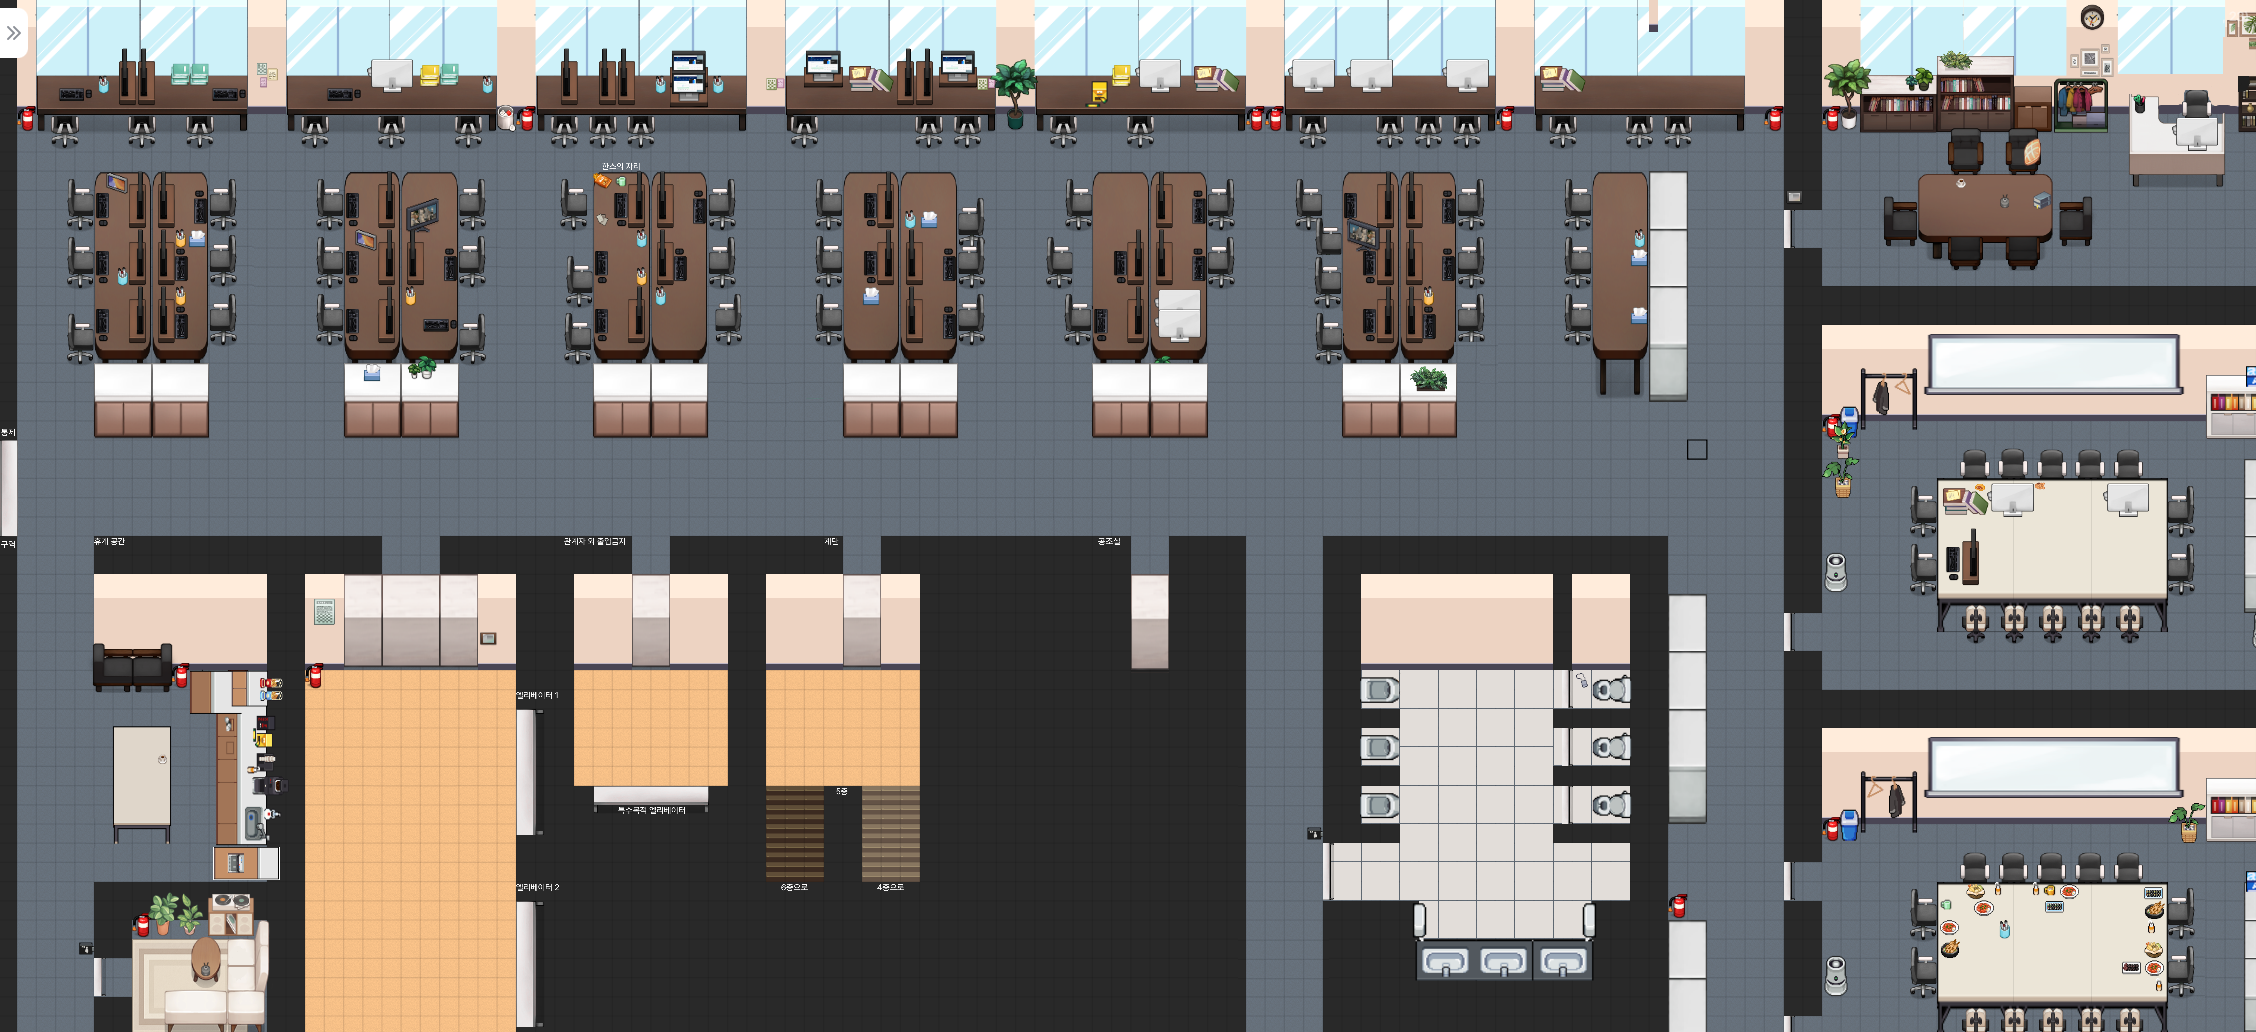
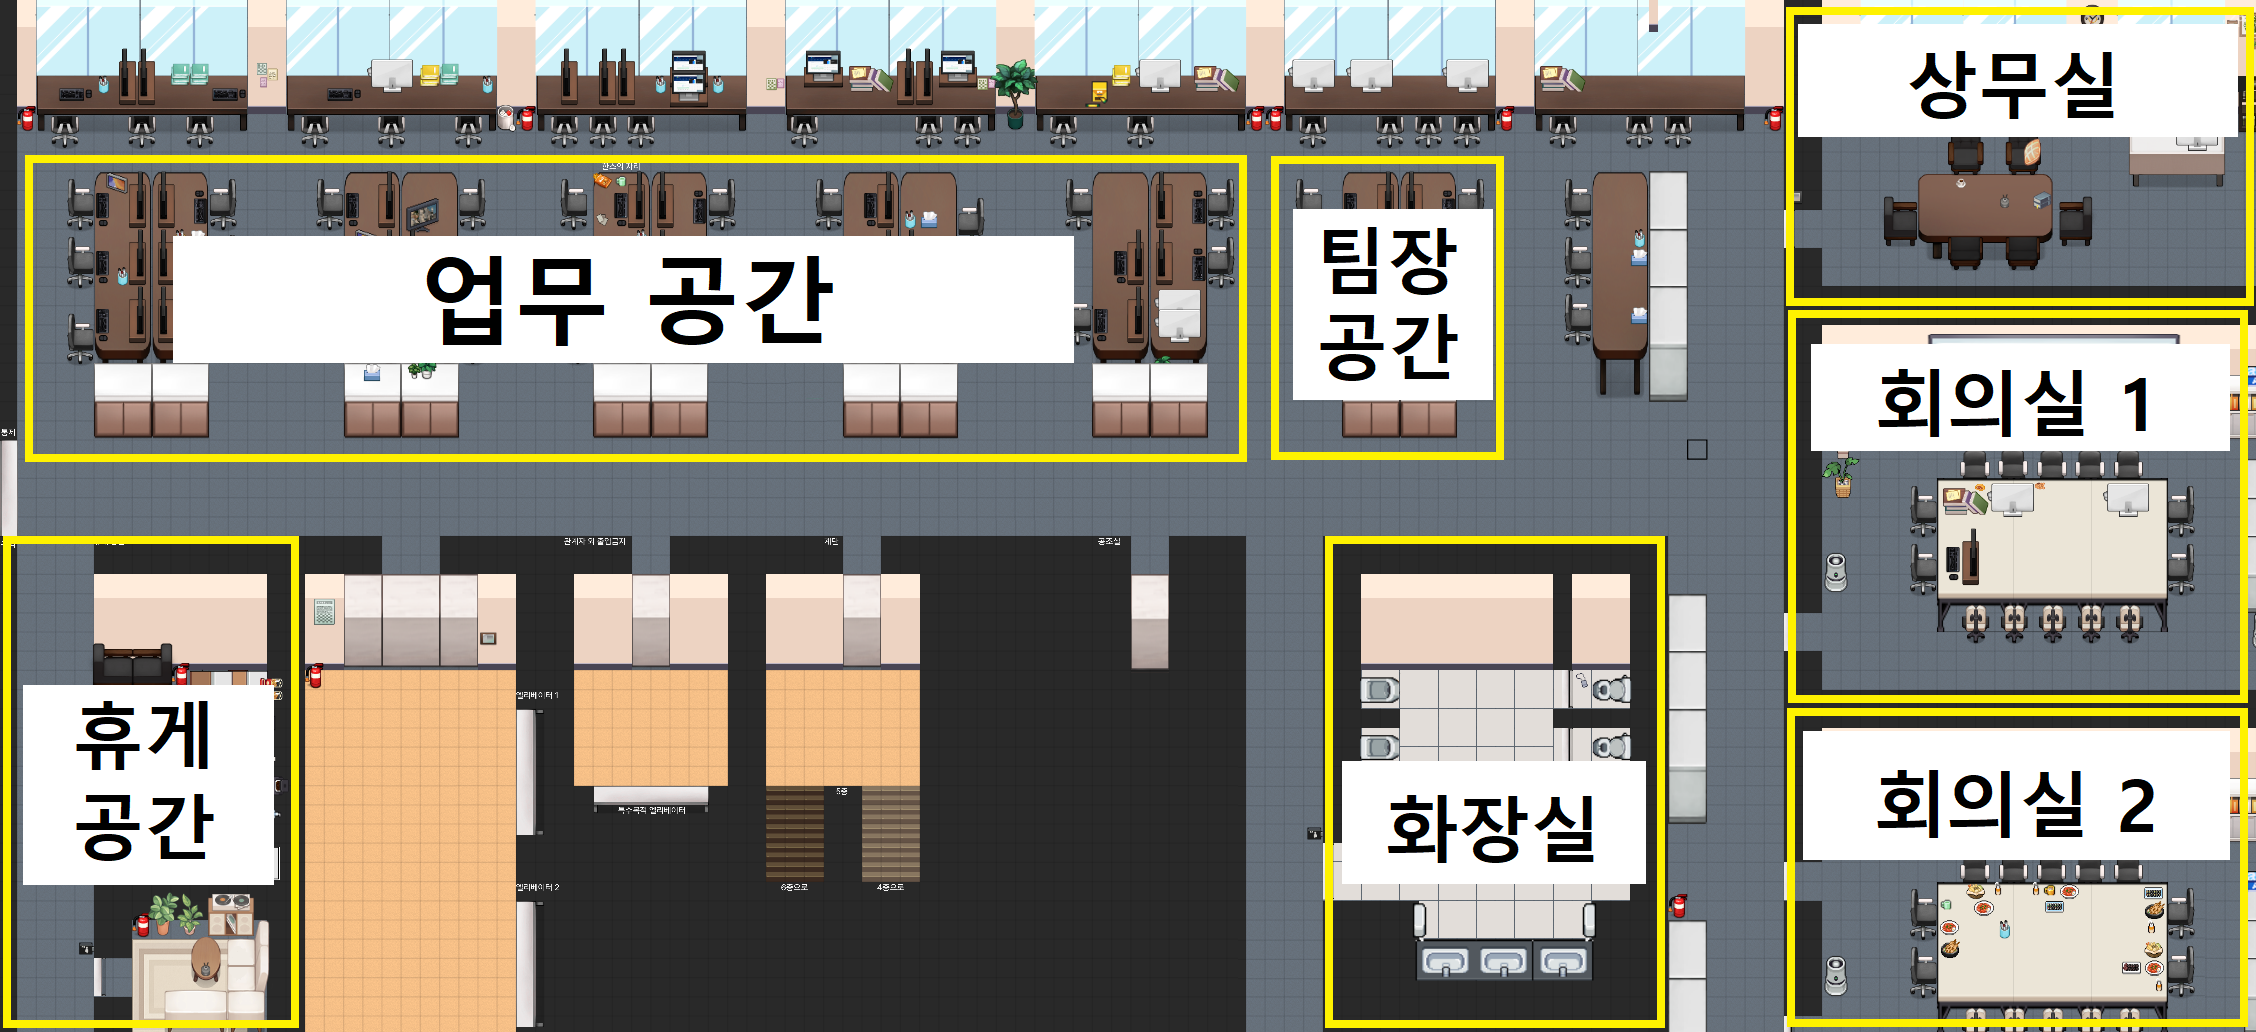
add wide image mode

diff --git a/seekHANSout/floor5/main.js b/seekHANSout/floor5/main.js
@@ -209,22 +209,25 @@ const dialogType = {
 
 const dialogSize = {
   0: [30, 10, 30, 10, 35, 25, 35, 25],
-  3: [20, 5, 20, 5, 20, 30, 20, 30],
+  3: [20, 5, 20, 5, 20, 30, 20, 30, 20, 20, 20, 20],
 };
 
 const openDialog = (type, player, dialogId) => {
+  let isWide = false;
   if (type == 0 && !player.tag.condition.includes('noName')) {
     type = 1; // 이름 설정 후 type 보정
+  } else if (type == 3 && dialogId >= 100) {
+    isWide = true;
   }
 
   if (player.tag.widgetDialog == null) {
     player.tag.widgetDialogType = dialogType[type];
     player.tag.widgetDialog = player.showWidgetResponsive(
       `widget/dialog/${dialogType[type]}.html`,
-      dialogSize[type == 3 ? 3 : 0][player.isMobile ? 0 : 4],
-      dialogSize[type == 3 ? 3 : 0][player.isMobile ? 1 : 5],
-      dialogSize[type == 3 ? 3 : 0][player.isMobile ? 2 : 6],
-      dialogSize[type == 3 ? 3 : 0][player.isMobile ? 3 : 7]
+      dialogSize[type == 3 ? 3 : 0][player.isMobile ? 0 : !isWide ? 4 : 8],
+      dialogSize[type == 3 ? 3 : 0][player.isMobile ? 1 : !isWide ? 5 : 9],
+      dialogSize[type == 3 ? 3 : 0][player.isMobile ? 2 : !isWide ? 6 : 10],
+      dialogSize[type == 3 ? 3 : 0][player.isMobile ? 3 : !isWide ? 7 : 11]
     );
     player.tag.widgetDialog.onMessage.Add(function (player, msg) {
       if (msg.type == 'closeDialog') {
@@ -245,7 +248,13 @@ const openDialog = (type, player, dialogId) => {
     });
   }
 
-  player.tag.widgetDialog.sendMessage({ type, condition: player.tag.condition, dialogId });
+  player.tag.widgetDialog.sendMessage({
+    type,
+    isMobile: player.isMobile,
+    isWide,
+    condition: player.tag.condition,
+    dialogId,
+  });
 };
 
 const closeDialog = (player) => {

diff --git a/seekHANSout/floor5/widget/dialog/image.html b/seekHANSout/floor5/widget/dialog/image.html
@@ -77,9 +77,11 @@
 			</div>
 		</div>
 		<script type="text/javascript">
-			let condition, imageList, nextButtonText, imgNo, isChkLast, chkListNo;
+			let isMobile, isWide, condition, imageList, nextButtonText, imgNo, isChkLast, chkListNo;
 
 			window.addEventListener("message", (e) => {
+				isMobile = e.data.isMobile;
+				isWide = e.data.isWide;
 				condition =  e.data.condition;
 				imageList = IMAGE_FLOW[e.data.dialogId].imageList;
 				nextButtonText = IMAGE_FLOW[e.data.dialogId].nextButtonText ? IMAGE_FLOW[e.data.dialogId].nextButtonText : '다음';
@@ -104,6 +106,10 @@
 					document.getElementById('nextButton').remove();
 				else
 					document.getElementById('nextButton').innerHTML = nextButtonText;
+				
+				if(type == 'wide'){
+
+				}
 			}
 
 			const nextImage = () => {
@@ -124,15 +130,19 @@
 				}
 			}
 
-			const IMAGE_FLOW = [
-				{	
+			const IMAGE_FLOW = {
+				0: {	
 					chkListNo: 3,
 					nextButtonText: '뒤집기',
 					imageList: [
 						"https://github.com/rlaghdcjf12/ZEP/blob/main/seekHANSout/floor5/assets/hansCardOnToilet.jpg?raw=true",
 						"https://github.com/rlaghdcjf12/ZEP/blob/main/seekHANSout/floor5/assets/hansCardMemo1.png?raw=true"]
 				},
-			]
+				100: {
+					imageList: [
+						"https://github.com/rlaghdcjf12/ZEP/blob/main/seekHANSout/floor5/assets/map.png?raw=true"]
+				}
+			}
 		</script>
 	</body>
 </html>
